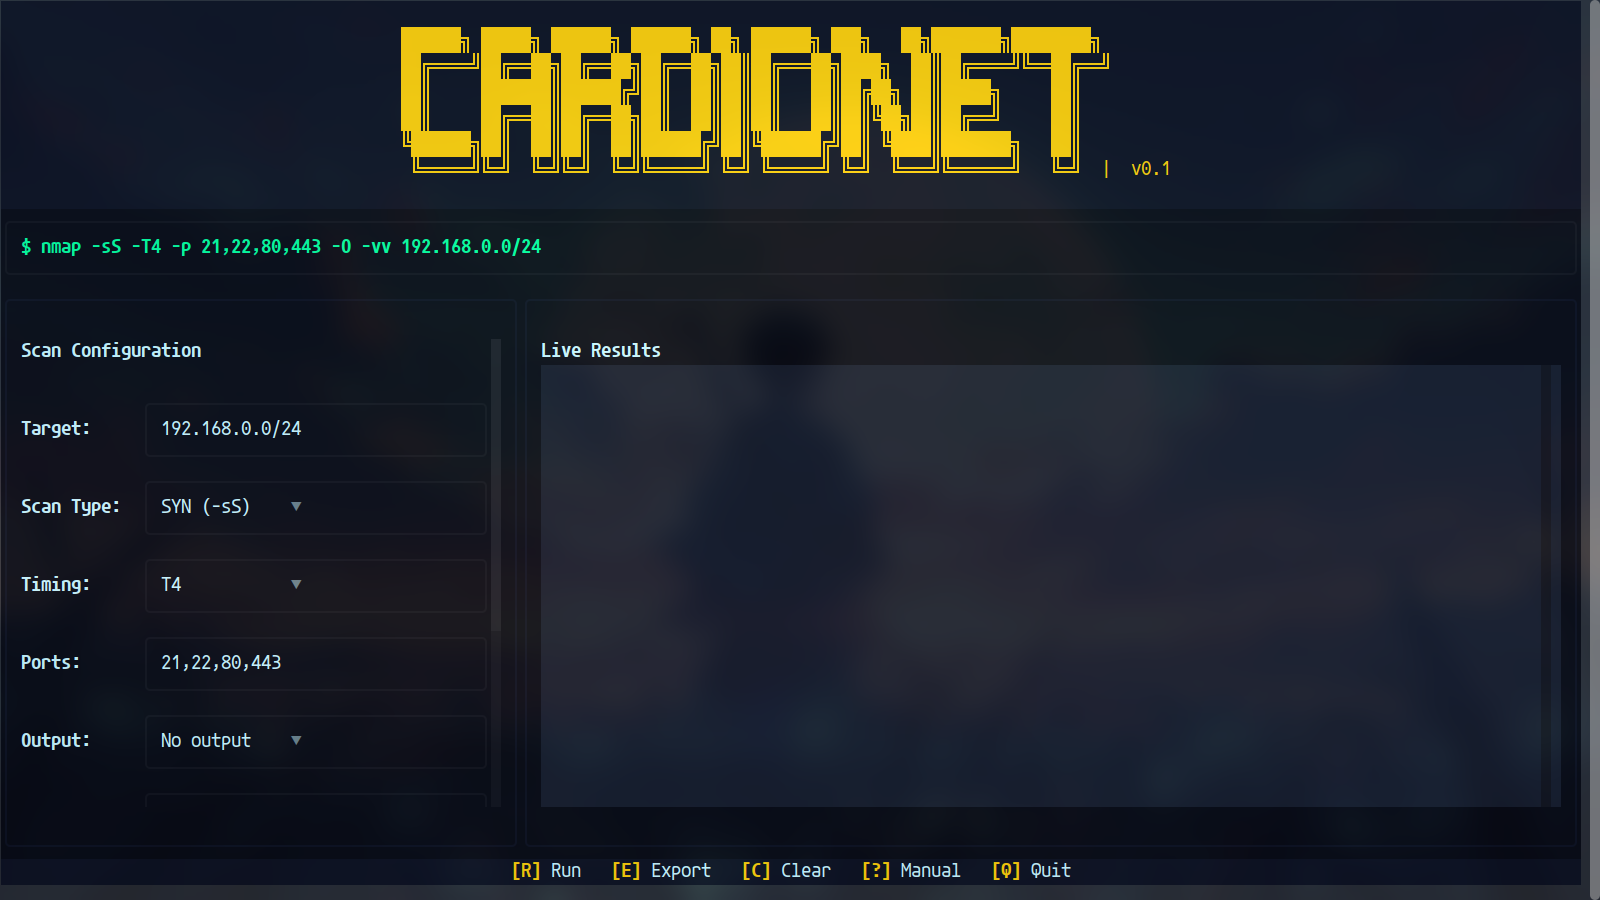
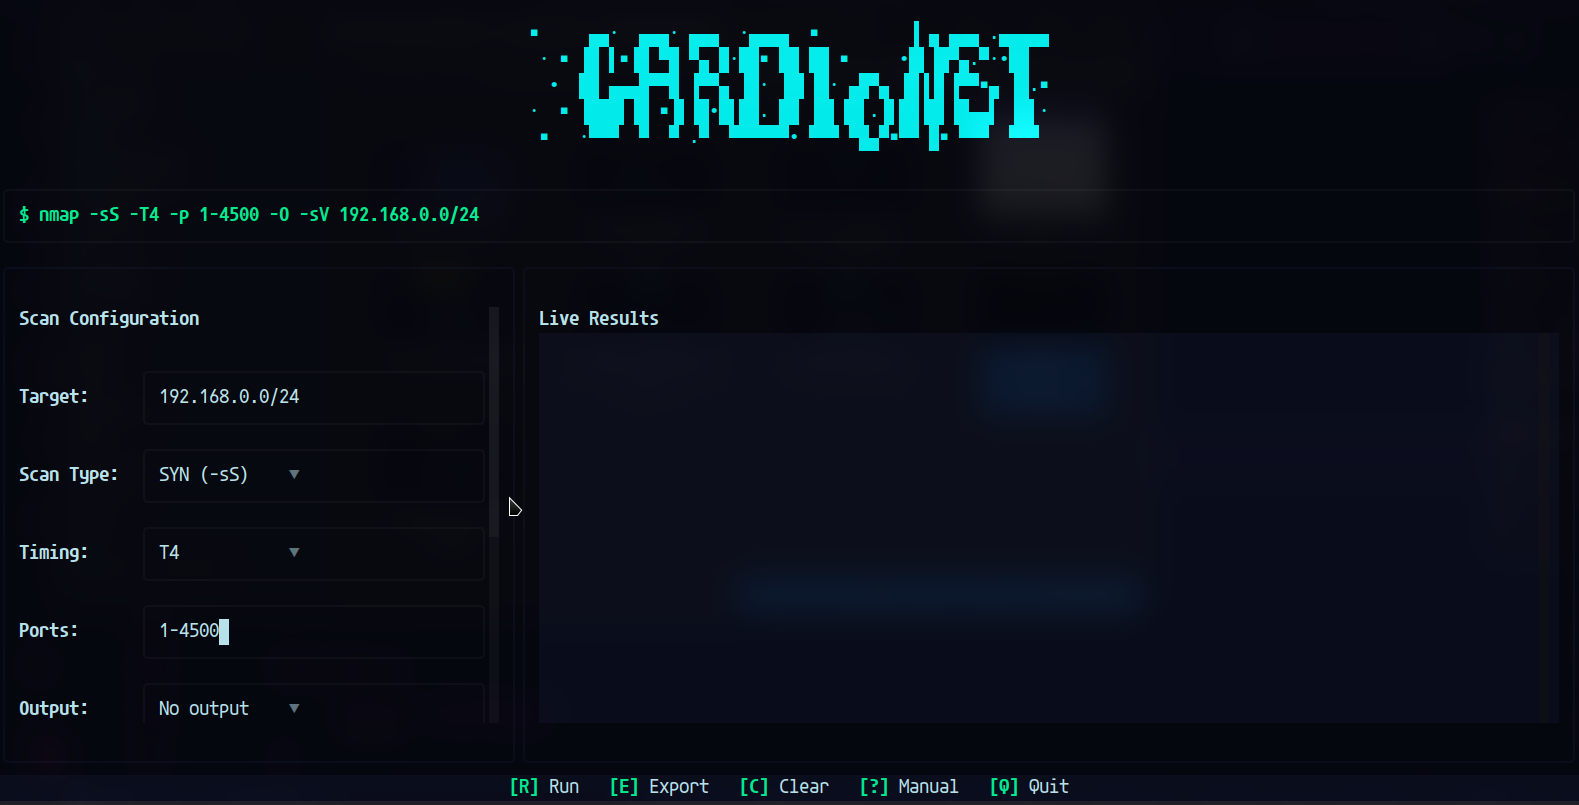
UI: Fixes

diff --git a/cardionet.py b/cardionet.py
@@ -8,7 +8,7 @@ from ui.modals import ExportModal, ExtraModal, QuitModal, ScriptsModal
 from textual.app import App, ComposeResult
 from textual import on
 from textual.containers import Horizontal, Vertical, VerticalScroll
-from textual.widgets import Static, Button, Select, Checkbox, Input
+from textual.widgets import Static, Button, Select, Input
 
 APP_VERSION = "0.1"
 APP_NAME = open("assets/app_logo.txt").read()
@@ -40,14 +40,13 @@ class CardioNetApp(App):
 
     def compose(self) -> ComposeResult:
         # Header
-        header_text = f"{APP_NAME}  |  v{APP_VERSION}"
+        header_text = f"{APP_NAME}"
         yield Static(header_text, classes="header")
 
         # Command preview
         self.cmd_preview = CommandPreview(classes="cmd")
 
         # Pre-fill with a representative command for the visual prototype
-        self.cmd_preview.cmd = "$ nmap"
         yield self.cmd_preview
 
         # Main horizontal split: options (left) and results (right)
@@ -64,7 +63,7 @@ class CardioNetApp(App):
                 yield VerticalScroll(self.results_log)
 
         # Footer with shortcuts
-        footer_text = "[$warning bold]\[R][/] Run   [$warning bold]\[E][/] Export   [$warning bold]\[C][/] Clear   [$warning bold]\[?][/] Manual   [$warning bold]\[Q][/] Quit"
+        footer_text = "[$success bold]\[R][/] Run   [$success bold]\[E][/] Export   [$success bold]\[C][/] Clear   [$success bold]\[?][/] Manual   [$success bold]\[Q][/] Quit"
         yield Static(footer_text, classes="footer")
 
     # Event Handlers
@@ -99,8 +98,10 @@ class CardioNetApp(App):
 
         # Port range (default to 1-1000 if empty)
         if self.scan.scan_type.value != "sn":
+            self.scan.ports.disabled = False
             command_as_list.append("-p")
             command_as_list.append(self.scan.ports.value or "1-1000")
+
         else:
             self.scan.ports.disabled = True
 

diff --git a/core/command_preview.py b/core/command_preview.py
@@ -1,10 +1,49 @@
-from textual.widgets import Static
+from textual.widgets import Input
 from textual.reactive import reactive
 
 
-class CommandPreview(Static):
+class CommandPreview(Input):
     """Command preview widget."""
-    cmd: reactive[str] = reactive("$ nmap ")
+    cmd: reactive[str] = reactive("")
+
+    def __init__(self,
+                 value=None,
+                 placeholder="",
+                 highlighter=None,
+                 password=False,
+                 *,
+                 restrict=None,
+                 type="text",
+                 max_length=0,
+                 suggester=None,
+                 validators=None,
+                 validate_on=None,
+                 valid_empty=False,
+                 select_on_focus=False,
+                 name=None,
+                 id=None,
+                 classes=None,
+                 disabled=False,
+                 tooltip=None,
+                 compact=False):
+        super().__init__(value,
+                         placeholder,
+                         highlighter,
+                         password,
+                         restrict=restrict,
+                         type=type,
+                         max_length=max_length,
+                         suggester=suggester,
+                         validators=validators,
+                         validate_on=validate_on,
+                         valid_empty=valid_empty,
+                         select_on_focus=select_on_focus,
+                         name=name,
+                         id=id,
+                         classes=classes,
+                         disabled=disabled,
+                         tooltip=tooltip,
+                         compact=compact)
 
     def watch_cmd(self, value: str) -> None:
-        self.update(f"[b]$ {value}[/]")
+        self.value = f"cardionet> {value}"

diff --git a/core/scan_config.py b/core/scan_config.py
@@ -14,7 +14,8 @@ class ScanConfiguration(Vertical):
                                 ("UDP (-sU)", "sU"), ("Host D. (-sn)", "sn"),
                                 ("FIN (-sF)", "sF"), ("Ack (-sA)", "sA"),
                                 ("Xmas (-sX)", "sX")],
-                       value="sS")
+                       value="sS",
+                       type_to_search=True)
     timing = Select(options=[("T0", "T0"), ("T1", "T1"), ("T2", "T2"),
                              ("T3", "T3"), ("T4", "T4"), ("T5", "T5")],
                     value="T4")
